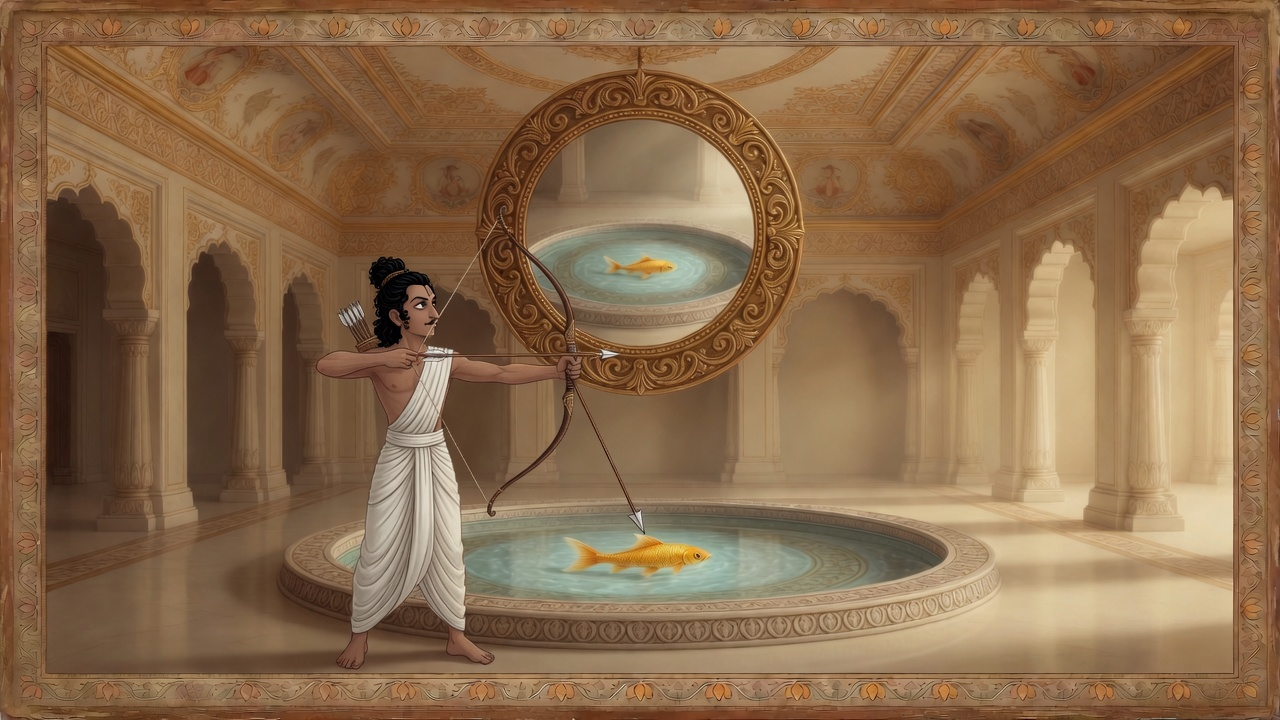
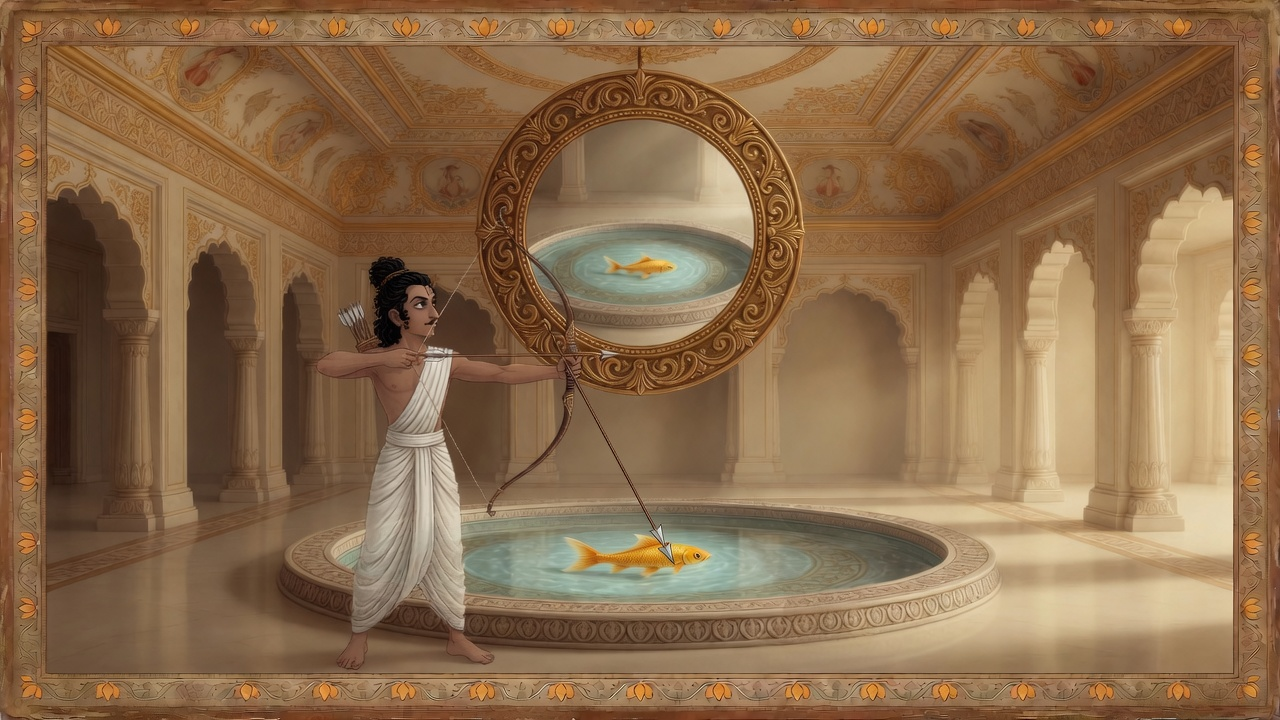
fix(mahabharata): single aim arrow; composed princely hit pose
Aim plate: one nocked arrow toward pool fish. Hit: calm noble celebration
instead of ecstatic fists.

diff --git a/mahabharata/episodes/02-swayamvara/script.js b/mahabharata/episodes/02-swayamvara/script.js
@@ -12,7 +12,7 @@ export const EPISODE = {
   voice: {
     provider: "grok-tts",
     voice_id: "orion",
-    cache: "ep02-v8-mirror",
+    cache: "ep02-v9-aim-hit",
     note: "Grok TTS orion — v8 ceiling mirror + ground-pool fish",
     base: "episodes/02-swayamvara/audio/",
   },

diff --git a/mahabharata/play.html b/mahabharata/play.html
@@ -67,6 +67,6 @@
     </div>
   </div>
 
-  <script type="module" src="js/main.js?v=ep02-mirror-v8"></script>
+  <script type="module" src="js/main.js?v=ep02-aim-hit-v9"></script>
 </body>
 </html>
